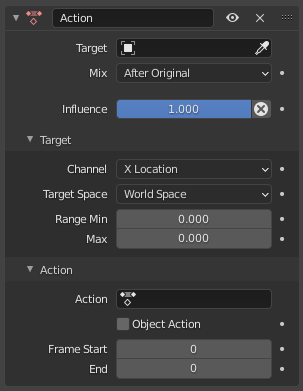
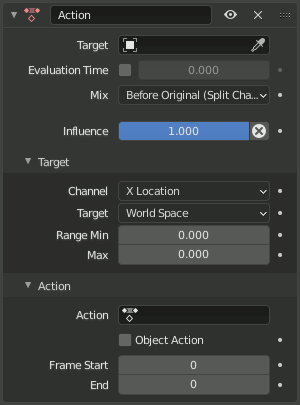
Action Constraint: document new Mix modes like in Copy Transforms.
Commit: rBcf10eb54cc

git-svn-id: https://svn.blender.org/svnroot/bf-manual/trunk/blender_docs@8286 c4de1f47-6596-e411-a384-0024e86c2797

diff --git a/manual/animation/constraints/relationship/action.rst b/manual/animation/constraints/relationship/action.rst
@@ -52,21 +52,38 @@ Evaluation Time
 
 Mix
    Specifies how the keyframed transformation from the action is combined with the existing transformation.
+   These modes are the same as in the :doc:`Copy Transforms </animation/constraints/transform/copy_transforms>`
+   constraint.
 
-   Before Original
-      The action transformation is added before the existing transformation, as if it was
-      applied to an imaginary parent of the constraint owner. Scale is handled like in
-      the :ref:`Aligned Inherit Scale <bpy.types.EditBone.inherit_scale>` mode of bones
-      to avoid creating shear.
-   After Original
-      The action transformation is added after the existing transformation, as if it was
-      applied locally to an imaginary child of the constraint owner. Scale is handled like
-      in the :ref:`Aligned Inherit Scale <bpy.types.EditBone.inherit_scale>` mode of bones
-      to avoid creating shear.
-   After Original (Full Scale)
-      The action transformation is added after the existing transformation, as if it was
-      applied locally to an imaginary child of the constraint owner with ordinary parenting.
-      This mode can create shear and is thus not recommended for use.
+   Before/After Original (Full)
+      The keyframed transformation is added before/after the existing transformation, as if it was
+      applied to an imaginary parent/child of the constraint owner. Scale is handled like in
+      the most basic :ref:`Full Inherit Scale <bpy.types.EditBone.inherit_scale>` mode of bones,
+      so combining non-uniform scale and rotation will create shear.
+
+   Before/After Original (Aligned)
+      The keyframed transformation is added before/after the existing transformation, as if it was
+      applied to an imaginary parent/child of the constraint owner. Scale is handled like in
+      the :ref:`Aligned Inherit Scale <bpy.types.EditBone.inherit_scale>` mode of bones to
+      avoid creating shear.
+
+      This is equivalent to using the *Split Channels* option, but replacing the location component with
+      the result of *Full*. If only uniform scale is used, the result is identical to *Full*.
+
+   Before/After Original (Split Channels)
+      Combines location, rotation and scale components of the transformation separately, similar
+      to a sequence of three :doc:`Copy Location </animation/constraints/transform/copy_location>`,
+      :doc:`Copy Rotation </animation/constraints/transform/copy_rotation>` and
+      :doc:`Copy Scale </animation/constraints/transform/copy_scale>` (with Offset)
+      constraints bundled together in one operation; the result may be slightly different
+      in case of sheared inputs.
+
+      Unlike *Aligned*, in this mode location channels are simply added together, so rotation
+      and scale components of the input transformations cannot affect the resulting location.
+
+   .. warning::
+      For technical reasons modes other than *After Original (Full)* and *After Original (Aligned)* may
+      not work as expected for constraints on *objects* (not bones) without a parent.
 
 Influence
    Controls the percentage of affect the constraint has on the object.
